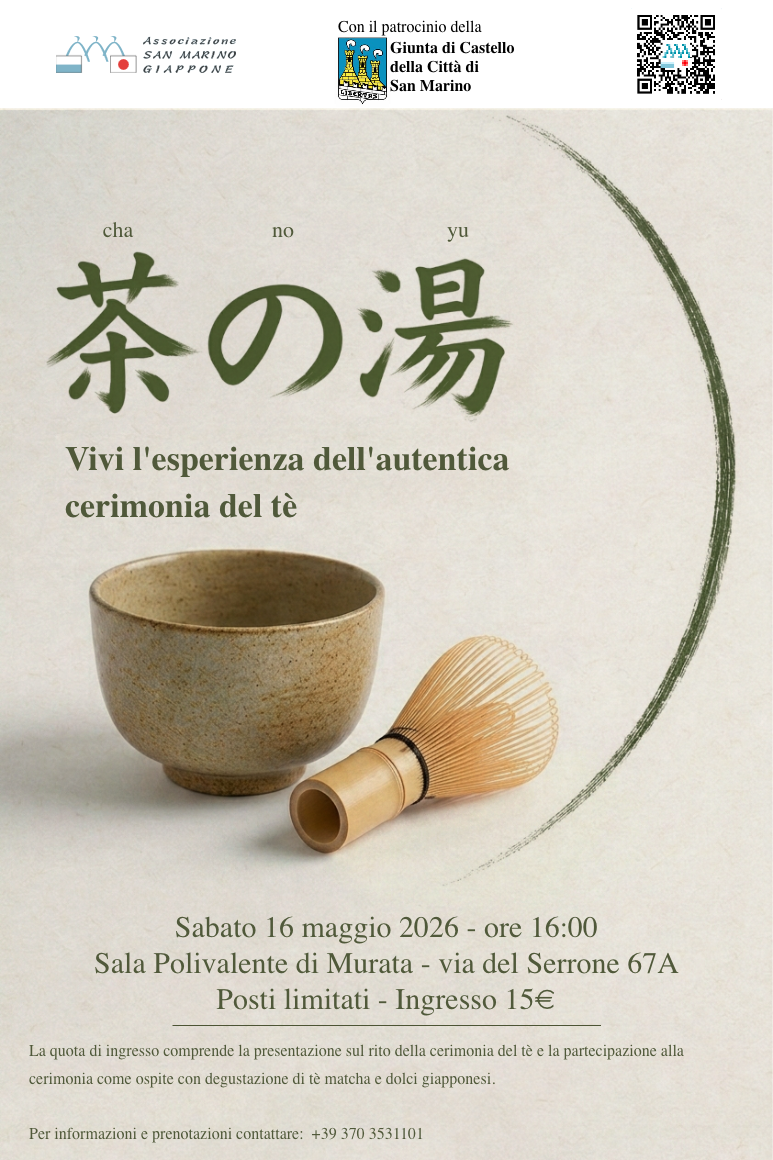
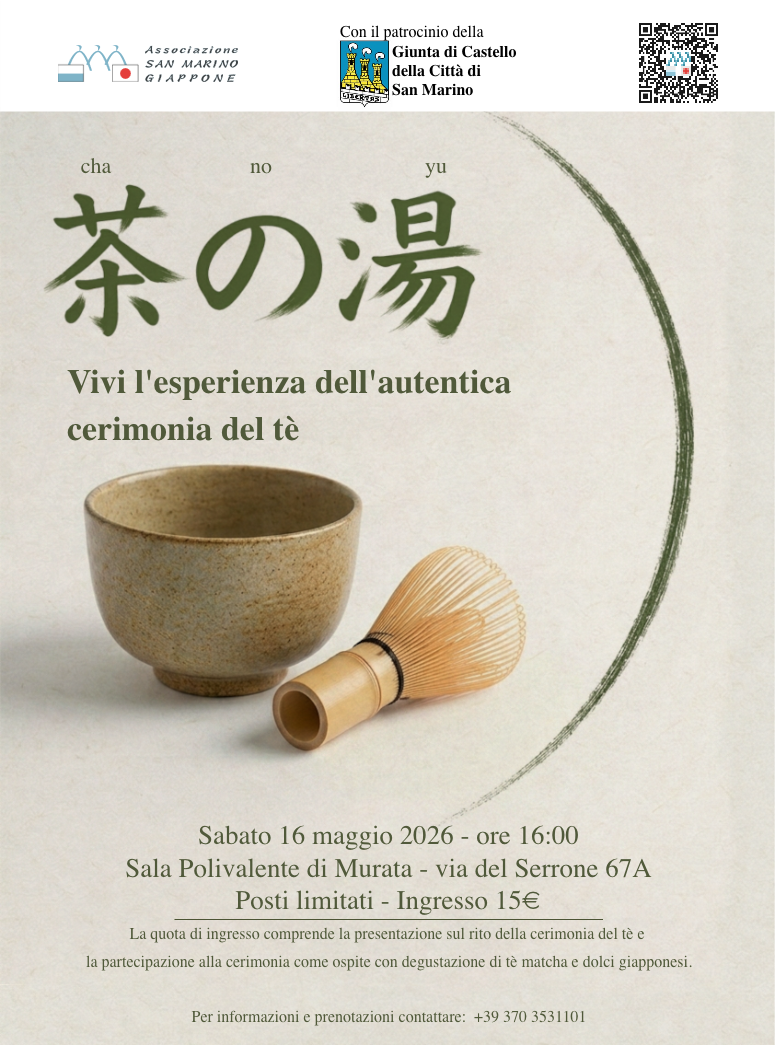
Updated info and poster

Changed region(s): [[0.0, 0.0, 1.0, 1.0], [0.031, 0.7656, 0.8693, 0.9799]]

diff --git a/_posts/notizie/2026-04-25-cerimonia-te.md b/_posts/notizie/2026-04-25-cerimonia-te.md
@@ -26,15 +26,13 @@ tags:
 
 presso la **Sala Polivalente di Murata** , via del Serrone 67A
 
- l'Associazione San Marino-Giappone, con il patrocinio della Giunta di Castello della Città di San Marino,
-
- organizza la manifestazione: 
+ l'Associazione San Marino-Giappone, con il patrocinio della Giunta di Castello della Città di San Marino, organizza la manifestazione: 
 
  **"茶の湯　cha no yu"**
 
  *Vivi l'esperienza dell'autentica cerimonia del tè*
 
-In questa occasione la maestra Miki Honma illustrerà ai presenti gli aspetti culturali e lo svolgimento della tradizionale cerimonia del tè giapponese.
+In questa occasione la maestra **Miki Homma** illustrerà ai presenti gli aspetti culturali e lo svolgimento della tradizionale cerimonia del tè giapponese.
 
 In seguito i partecipanti saranno "ospiti" di una cerimonia organizzata per loro e potranno gustare il tè matcha accompagnato da dolcetti giapponesi tradizionali.
 
